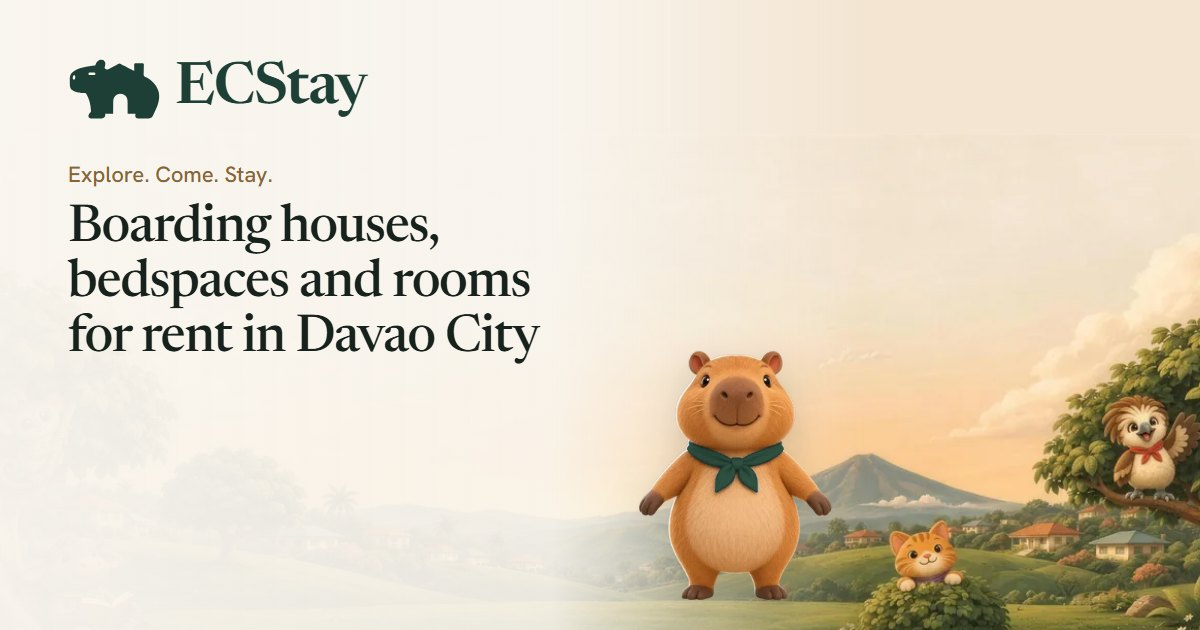
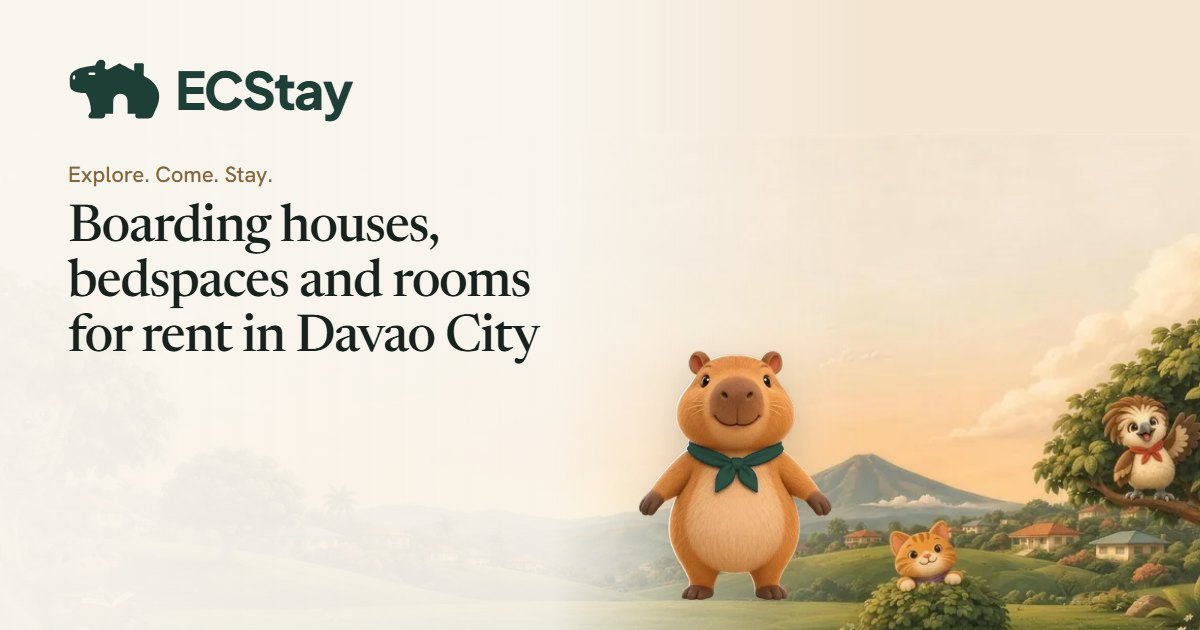
ECStay: sign-in as one centered card (no scroll), bold sans wordmark
- Sign-in follows the pattern top products use (Airbnb, Linear, Notion, Stripe, Booking,
  Shopify): logo on top, "Log in or sign up", Google, email, tiny legal line. No site header,
  no photo, no selling points, no footer; fits one screen on desktop and phone.
- Wordmark: Plus Jakarta Sans 800, matching the weight of the capybara-house mark
  (header, footer, sign-in, share picture, email logo).

Changed region(s): [[0.1233, 0.0905, 0.3083, 0.181]]

diff --git a/assets/css/havn.css b/assets/css/havn.css
@@ -128,7 +128,8 @@ h1, h2, h3 { font-family: var(--font-serif); font-weight: 500; line-height: 1.2;
 }
 .logo { grid-area: logo; height: var(--hdr-row1); display: inline-flex; align-items: center; gap: 9px; text-decoration: none; color: var(--text); }
 .logo-icon { width: 45px; height: 30px; flex: none; }
-.logo-word { font: 600 25px/1 var(--font-serif); letter-spacing: -0.025em; color: var(--evergreen); font-optical-sizing: auto; }
+/* Wordmark: a bold geometric sans that matches the weight of the capybara-house mark. */
+.logo-word { font: 800 23px/1 'Plus Jakarta Sans', var(--font-body); letter-spacing: -0.035em; color: var(--evergreen); }
 .logo-dot { width: 8px; height: 8px; border-radius: 50%; background: var(--blue); margin-top: 8px; }
 .logo-ph { font: 700 11px/1 var(--font-display); letter-spacing: .14em; color: var(--muted); margin-top: 8px; }
 .hdr-actions { grid-area: actions; display: flex; align-items: center; gap: 8px; }
@@ -863,7 +864,7 @@ fieldset.field { border: 0; padding: 0; min-width: 0; }
   .list-link { display: none; }
   .logo { height: 48px; }
   .logo-icon { width: 54px; height: 36px; }
-  .logo-word { font-size: 29px; }
+  .logo-word { font-size: 26px; }
 
   .search {
     margin: 0; height: 60px; width: 100%; max-width: 780px; justify-self: center; padding: 6px;
@@ -1135,46 +1136,39 @@ fieldset.field { border: 0; padding: 0; min-width: 0; }
   .lp-steps { grid-template-columns: repeat(3, minmax(0, 1fr)); gap: 40px; margin: 56px 0 88px; padding-top: 36px; }
 }
 
-/* Sign in: the form beside a real room photo; no footer */
-.auth { display: flex; flex-direction: column; }
-.auth-photo { height: 210px; margin: 12px 12px 0; border-radius: 20px; }
-.auth-main { display: flex; justify-content: center; }
-.auth-card { width: 100%; max-width: 460px; padding: 28px 16px 48px; }
-.auth-card h1 { font: 500 34px/1.08 var(--font-serif); letter-spacing: -0.025em; color: var(--navy); }
-.auth-sub { margin-top: 12px; color: var(--ink-2); font-size: 16.5px; line-height: 1.55; }
+/* Sign in: one centered card, logo on top, nothing else; fits one screen (no site header, no footer) */
+body.is-auth .site-header { display: none; }
+body.is-auth #view-page { min-height: 100dvh; }
+body.is-auth .page-in { display: flex; flex-direction: column; }
+.auth { flex: 1; display: flex; flex-direction: column; align-items: center; justify-content: center; gap: 22px; padding: 20px 16px 6vh; }
+.auth-logo { display: inline-flex; align-items: center; gap: 10px; text-decoration: none; }
+.auth-logo img { width: 54px; height: 36px; }
+.auth-logo .logo-word { font-size: 28px; }
+.auth-card { width: 100%; max-width: 440px; padding: 30px 26px 26px; border: 1px solid var(--border); border-radius: 24px; background: #fff; box-shadow: 0 1px 2px rgba(23, 34, 29, .04), 0 24px 60px -30px rgba(23, 34, 29, .3); }
+.auth-card h1 { font: 650 22px/1.25 var(--font-body); letter-spacing: -0.01em; color: var(--text); text-align: center; }
+.auth-sub { margin-top: 10px; color: var(--ink-2); font-size: 15.5px; line-height: 1.5; text-align: center; }
 .auth-sub b { color: var(--text); }
-.btn-google { min-height: 56px; margin-top: 28px; background: #fff; border: 1px solid var(--border-strong); color: var(--text); gap: 12px; font-size: 16px; }
+.btn-google { min-height: 52px; margin-top: 22px; background: #fff; border: 1px solid var(--border-strong); color: var(--text); gap: 12px; font-size: 15.5px; }
 .btn-google:hover { border-color: var(--text); }
 .g-logo { width: 20px; height: 20px; flex: none; }
-.auth-or { display: flex; align-items: center; gap: 14px; margin: 24px 0 8px; color: var(--muted); font-size: 14px; }
+.auth-or { display: flex; align-items: center; gap: 14px; margin: 18px 0 6px; color: var(--muted); font-size: 13.5px; }
 .auth-or::before, .auth-or::after { content: ""; flex: 1; height: 1px; background: var(--border); }
 .auth-form .field { margin-top: 8px; }
-.auth-form .field input { height: 56px; font-size: 16px; border-radius: 14px; }
-.auth-form .btn { min-height: 56px; margin-top: 14px; font-size: 16px; }
-.auth-legal { margin-top: 18px; font-size: 13.5px; line-height: 1.55; color: var(--muted); }
+.auth-form .field input { height: 52px; font-size: 16px; border-radius: 14px; }
+.auth-form .btn { min-height: 52px; margin-top: 12px; font-size: 15.5px; }
+.auth-legal { margin-top: 18px; font-size: 12.5px; line-height: 1.55; color: var(--muted); text-align: center; }
 .auth-legal a { color: var(--ink-2); }
-.auth-points { display: grid; gap: 14px; margin-top: 28px; padding-top: 24px; border-top: 1px solid var(--border); }
-.auth-points li { display: flex; align-items: center; gap: 12px; font-size: 15px; line-height: 1.45; color: var(--ink-2); }
-.auth-points span { flex: none; display: grid; place-items: center; width: 36px; height: 36px; border-radius: 50%; background: var(--linen); color: var(--evergreen); }
-.auth-points .i { width: 17px; height: 17px; }
-.auth-back { display: inline-flex; align-items: center; gap: 6px; min-height: 40px; margin-bottom: 12px; padding: 0; font: 600 14.5px var(--font-body); color: var(--ink-2); text-decoration: none; }
+.auth-back { display: inline-flex; align-items: center; gap: 6px; min-height: 36px; margin-bottom: 8px; padding: 0; font: 600 14px var(--font-body); color: var(--ink-2); text-decoration: none; }
 .auth-back .i { width: 18px; height: 18px; }
 .auth-back:hover span { text-decoration: underline; text-underline-offset: 3px; }
-.auth-demo { margin-top: 14px; padding: 10px 12px; border-radius: 10px; background: var(--warm); color: var(--warm-text); font-size: 14px; font-weight: 600; }
-.otp { display: flex; gap: 8px; margin-top: 24px; border: 0; padding: 0; }
-.otp input { width: 100%; min-width: 0; height: 62px; border: 1px solid var(--border-strong); border-radius: 14px; background: #fff; text-align: center; font: 600 26px var(--font-body); color: var(--text); }
+.auth-demo { margin-top: 12px; padding: 9px 12px; border-radius: 10px; background: var(--warm); color: var(--warm-text); font-size: 14px; font-weight: 600; text-align: center; }
+.otp { display: flex; gap: 8px; margin-top: 20px; border: 0; padding: 0; }
+.otp input { width: 100%; min-width: 0; height: 58px; border: 1px solid var(--border-strong); border-radius: 14px; background: #fff; text-align: center; font: 600 24px var(--font-body); color: var(--text); }
 .otp input:focus { outline: 0; border-color: var(--evergreen); box-shadow: var(--ring); }
-.auth-resend { margin-top: 12px; text-align: center; }
-.auth-resend .btn-link { min-height: 40px; color: var(--evergreen); }
+.auth-resend { margin-top: 10px; text-align: center; }
+.auth-resend .btn-link { min-height: 36px; font-size: 14px; color: var(--evergreen); }
 .auth-resend .btn-link:disabled { color: var(--muted); text-decoration: none; cursor: default; }
-@media (min-width: 1024px) {
-  .auth { flex-direction: row-reverse; min-height: calc(100vh - 92px); padding: 16px; gap: 16px; }
-  .auth-photo { flex: 1 1 52%; height: auto; margin: 0; border-radius: 28px; }
-  .auth-main { flex: 1 1 48%; align-items: center; }
-  .auth-card { padding: 40px 32px; }
-  .auth-card h1 { font-size: 46px; }
-  .ph-chip { left: 24px; top: 24px; }
-}
+@media (max-width: 479px) { .auth { justify-content: flex-start; padding-top: 9vh; } .auth-card { padding: 26px 18px 22px; } }
 
 /* Header: Sign in */
 .signin-link { display: inline-flex; align-items: center; min-height: 38px; padding: 0 16px; border-radius: 999px; border: 1px solid var(--border-strong); background: #fff; color: var(--text); font: 600 14px var(--font-body); text-decoration: none; white-space: nowrap; }
@@ -1349,7 +1343,7 @@ fieldset.field { border: 0; padding: 0; min-width: 0; }
 
 /* Footer: readable sizes and room to breathe (all footers) */
 .foot { gap: 14px 28px; font-size: 15px; line-height: 1.55; }
-.foot-brand .logo-word { font-size: 28px; }
+.foot-brand .logo-word { font-size: 26px; }
 .foot-brand img { width: 48px; height: 32px; }
 .foot-tag { font-size: 15.5px; }
 .foot-cols { gap: 32px 24px; margin: 18px 0 8px; max-width: 1040px; }

diff --git a/assets/js/host.js b/assets/js/host.js
@@ -62,7 +62,7 @@
   }
 
   /* A real room photo with an optional overlay (the painted house belongs to the home page only). */
-  var SIGNIN_PHOTO = '/assets/photos/r-76fbd04a-2000.webp', LIST_PHOTO = '/assets/photos/u-bab0e564-2000.webp';
+  var LIST_PHOTO = '/assets/photos/u-bab0e564-2000.webp';
   function photoPanel(cls, src, overlay) {
     return '<div class="ph-panel ' + cls + '"><img src="' + src + '" alt="" width="2000" height="1500" decoding="async">' + (overlay || '') + '</div>';
   }
@@ -106,20 +106,14 @@
   HV.signin = function (host) {
     if (!ECS.enabled()) { go('/list'); return; }
     var next = nextParam(), email = '', timer = 0;
-    var chip = '<span class="ph-chip"><img src="/assets/brand/ecstay-mark.svg" width="36" height="24" alt="">' + esc(t('For landlords in Davao City')) + '</span>';
     host.innerHTML = HV.demoBar() +
       '<div class="auth">' +
-        '<div class="auth-main"><div class="auth-card" aria-live="polite"></div></div>' +
-        photoPanel('auth-photo', SIGNIN_PHOTO, chip) +
+        '<a href="/" class="auth-logo" data-link data-home aria-label="ECStay, home"><img src="/assets/brand/ecstay-mark.svg" width="54" height="36" alt=""><span class="logo-word">ECStay</span></a>' +
+        '<div class="auth-card" aria-live="polite"></div>' +
       '</div>';
     var card = $('.auth-card', host);
     var legal = '<p class="auth-legal">' + t('By continuing, you agree to the {terms} and the {privacy}.', {
       terms: '<a href="/terms" data-link>' + esc(t('Terms of Use')) + '</a>', privacy: '<a href="/privacy" data-link>' + esc(t('Privacy Notice')) + '</a>' }) + '</p>';
-    var points = '<ul class="auth-points">' +
-      '<li><span>' + H.icon('lock') + '</span>' + esc(t('No password. We email you a 6-digit code each time.')) + '</li>' +
-      '<li><span>' + H.icon('phone') + '</span>' + esc(t('Your mobile number is never shown on your listing.')) + '</li>' +
-      '<li><span>' + H.icon('shield') + '</span>' + esc(t('We review every listing before renters see it.')) + '</li></ul>';
-
     function done() {
       clearInterval(timer);
       // First sign-in: ask for the details renters need, then carry on.
@@ -131,15 +125,14 @@
     function stepEmail() {
       clearInterval(timer);
       card.innerHTML =
-        '<h1>' + esc(t('Welcome to ECStay')) + '</h1>' +
-        '<p class="auth-sub">' + esc(t('Sign in, or create your account, to list and manage your boarding house.')) + '</p>' +
+        '<h1>' + esc(t('Log in or sign up')) + '</h1>' +
         '<button type="button" class="btn btn-google btn-block" data-google>' + GOOGLE_G + '<span>' + esc(t('Continue with Google')) + '</span></button>' +
-        '<div class="auth-or"><span>' + esc(t('or with your email')) + '</span></div>' +
+        '<div class="auth-or"><span>' + esc(t('or')) + '</span></div>' +
         '<form class="auth-form" novalidate>' +
           '<label class="field"><span class="vh">' + esc(t('Email address')) + '</span><input type="email" name="email" autocomplete="email" inputmode="email" placeholder="' + esc(t('Email address')) + '" value="' + esc(email) + '" required></label>' +
           '<p class="field-err" role="alert" hidden></p>' +
-          '<button type="submit" class="btn btn-primary btn-block">' + esc(t('Email me a code')) + '</button>' +
-        '</form>' + legal + points;
+          '<button type="submit" class="btn btn-primary btn-block">' + esc(t('Continue with email')) + '</button>' +
+        '</form>' + legal;
       var f = $('form', card), e = $('.field-err', card), input = $('input', f);
       $('[data-google]', card).addEventListener('click', function () {
         var b = this; busy(b, true, t('Opening Google'));

diff --git a/assets/js/i18n.js b/assets/js/i18n.js
@@ -107,6 +107,8 @@
       'Rooms and bedspaces in Davao, near malls, offices and schools.': 'Mga kwarto at bedspace sa Davao, malapit sa mall, opisina at school.',
       'Rooms and bedspaces in Davao': 'Mga kwarto at bedspace sa Davao',
       'your ECStay concierge': 'ang iyong concierge sa ECStay',
+      'Log in or sign up': 'Mag-log in o mag-sign up',
+      'Continue with email': 'Magpatuloy gamit ang email',
       'Reach students and young workers looking for a room near their school or work. We review every listing before it goes live.': 'Abutin ang mga estudyante at batang manggagawa na naghahanap ng kwarto malapit sa school o trabaho. Sinusuri namin ang bawat listing bago ito lumabas.',
       'Google, or a 6-digit code by email.': 'Google, o 6-digit na code sa email.',
       'Photos, prices and the exact spot on the map.': 'Litrato, presyo at eksaktong lugar sa mapa.',
@@ -350,6 +352,8 @@
       'Rooms and bedspaces in Davao, near malls, offices and schools.': 'Mga kwarto ug bedspace sa Davao, duol sa mall, opisina ug school.',
       'Rooms and bedspaces in Davao': 'Mga kwarto ug bedspace sa Davao',
       'your ECStay concierge': 'imong concierge sa ECStay',
+      'Log in or sign up': 'Mag-log in o mag-sign up',
+      'Continue with email': 'Padayon gamit ang email',
       'Reach students and young workers looking for a room near their school or work. We review every listing before it goes live.': 'Abta ang mga estudyante ug batan-ong mamumuo nga nangita og kwarto duol sa eskwelahan o trabaho. Among susihon ang matag listing sa dili pa kini mogawas.',
       'Google, or a 6-digit code by email.': 'Google, o 6-digit nga code sa email.',
       'Photos, prices and the exact spot on the map.': 'Litrato, presyo ug eksaktong dapit sa mapa.',

diff --git a/404.html b/404.html
@@ -29,7 +29,7 @@
   <link rel="preconnect" href="https://fonts.googleapis.com">
   <link rel="preconnect" href="https://fonts.gstatic.com" crossorigin>
   <link rel="preconnect" href="https://tiles.openfreemap.org" crossorigin>
-  <link rel="stylesheet" href="https://fonts.googleapis.com/css2?family=Hanken+Grotesk:wght@400..700&family=Newsreader:ital,opsz,wght@0,6..72,400..700;1,6..72,400..600&display=swap">
+  <link rel="stylesheet" href="https://fonts.googleapis.com/css2?family=Hanken+Grotesk:wght@400..700&family=Plus+Jakarta+Sans:wght@800&family=Newsreader:ital,opsz,wght@0,6..72,400..700;1,6..72,400..600&display=swap">
   <script>document.documentElement.className += ' js';</script>
   <link rel="stylesheet" href="/assets/css/havn.css">
   <!-- three.js for Kapi, the 3D capybara on the home page (loaded only there, after the page is ready). -->

diff --git a/index.html b/index.html
@@ -28,7 +28,7 @@
   <link rel="preconnect" href="https://fonts.googleapis.com">
   <link rel="preconnect" href="https://fonts.gstatic.com" crossorigin>
   <link rel="preconnect" href="https://tiles.openfreemap.org" crossorigin>
-  <link rel="stylesheet" href="https://fonts.googleapis.com/css2?family=Hanken+Grotesk:wght@400..700&family=Newsreader:ital,opsz,wght@0,6..72,400..700;1,6..72,400..600&display=swap">
+  <link rel="stylesheet" href="https://fonts.googleapis.com/css2?family=Hanken+Grotesk:wght@400..700&family=Plus+Jakarta+Sans:wght@800&family=Newsreader:ital,opsz,wght@0,6..72,400..700;1,6..72,400..600&display=swap">
   <script>document.documentElement.className += ' js';</script>
   <link rel="stylesheet" href="/assets/css/havn.css">
   <!-- three.js for Kapi, the 3D capybara on the home page (loaded only there, after the page is ready). -->

diff --git a/assets/js/app.js b/assets/js/app.js
@@ -566,7 +566,7 @@
   function leavePage() {
     if (window.HostView) HostView.leave();
     var p = $('#view-page'); if (p) { p.hidden = true; p.innerHTML = ''; }
-    document.body.classList.remove('is-pageview');
+    document.body.classList.remove('is-pageview', 'is-auth');
   }
 
   /* Business pages, landlord screens and "not found": one container, the normal header and footer. */
@@ -580,6 +580,7 @@
     var room = $('#view-room'); room.hidden = true; RoomView.destroy(); room.innerHTML = '';
     var host = $('#view-page'); host.hidden = false;
     document.body.classList.add('is-pageview');
+    document.body.classList.toggle('is-auth', kind === 'signin');
     renderHeader(); renderNav();
     var meta = function (title, desc, noindex) {
       document.title = title + ' · ECStay';
